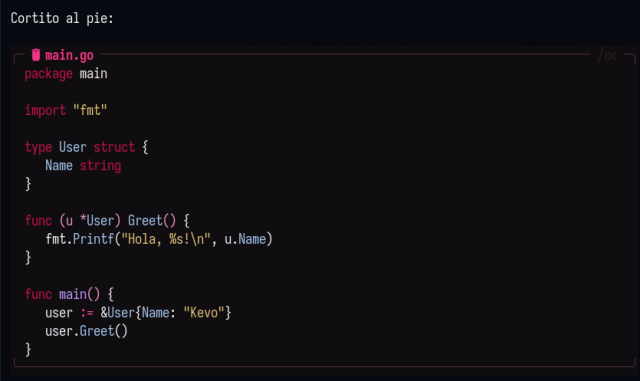
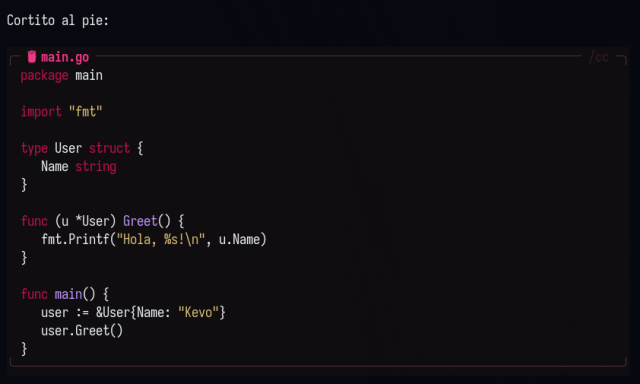
Docs

diff --git a/README.md b/README.md
@@ -10,29 +10,46 @@ Extensión estética y de productividad para **Pi Coding Agent** que transforma 
   <img src="assets/preview-code.png" alt="pi-messages Codeblock Preview" width="100%">
 </p>
 
-### ✨ Estilo de Bloques y Diffs
+## 📸 Vista Previa
 
-| Código con Icono y Encabezado (`Rust` / `Go`) | Diffs de Git con Bordes Redondeados |
+<p align="center">
+  <img src="assets/preview-code.png" alt="pi-messages Codeblock Preview" width="100%">
+</p>
+
+### 🎨 NEW: Selector de Coloración `/picolor` (PiColor vs Vanilla)
+
+|  PiColor (Semántico Universal Enriquecido) |  Vanilla (Motor Clásico por Defecto de Pi) |
 | :---: | :---: |
-| <img src="assets/preview-go.png" width="100%" alt="Go code preview"> | <img src="assets/preview-diff.png" width="100%" alt="Diff preview"> |
+| <img src="assets/preview-picolor.png" width="100%" alt="Modo PiColor: Resaltado Enriquecido"> | <img src="assets/preview-vanilla.png" width="100%" alt="Modo Vanilla: Por Defecto"> |
 
-### ⚡ Atajos de Teclado Interactivos
+| Menú Interactivo `/picolor` | Auto-Reload Instantáneo |
+| :---: | :---: |
+| <img src="assets/preview-picolor-command.png" width="100%" alt="Comando /picolor"> | <img src="assets/preview-picolor-selector.png" width="100%" alt="Selector de Motor de Sintaxis"> |
+
+### ⚡ Productividad y Estilo
 
 | Menú de Copiado Rápido (`Alt+C` / `/cc`) | Menú de Inserción en Editor (`Alt+I` / `/ci`) |
 | :---: | :---: |
 | <img src="assets/preview-copy-selector.png" width="100%" alt="Copy selector preview"> | <img src="assets/preview-insert-selector.png" width="100%" alt="Insert selector preview"> |
 
-### 🎨 NEW: Selector de Coloración `/picolor` (PiColor vs Vanilla)
-
-| Menú Interactivo `/picolor` | Cambio Automático de Modo |
+| Código con Icono y Encabezado (`Rust` / `Go`) | Diffs de Git con Bordes Redondeados |
 | :---: | :---: |
-| <img src="assets/preview-picolor-command.png" width="100%" alt="Comando /picolor"> | <img src="assets/preview-picolor-selector.png" width="100%" alt="Selector de Motor de Sintaxis"> |
-
-|  PiColor (Semántico Universal Enriquecido) |  Vanilla (Motor Clásico por Defecto de Pi) |
-| :---: | :---: |
-| <img src="assets/preview-picolor.png" width="100%" alt="Modo PiColor"> | <img src="assets/preview-vanilla.png" width="100%" alt="Modo Vanilla"> |
+| <img src="assets/preview-go.png" width="100%" alt="Go code preview"> | <img src="assets/preview-diff.png" width="100%" alt="Diff preview"> |
 
 *(Todo el bloque cuenta con fondo tenue continuo, cabecera con icono Nerd Font del lenguaje o ruta de archivo, minileyenda `/cc`, esquinas redondeadas simétricas `╭ ╮` y `╰ ╯`, y ausencia de barras laterales en el código para copiar limpio con el mouse).*
+
+---
+
+## 🚀 Mejoras y Novedades (NEW)
+
+###  Resaltado Semántico Universal PiColor
+* **El problema que resuelve:** El resaltador tradicional de Pi (`cli-highlight` basado en `highlight.js`) solo resalta palabras reservadas duras (`func`, `var`, `if`) y strings, dejando llamadas a métodos (`.Group()`, `.POST()`, `.Error()`), structs, punteros (`*User`), tipos (`string`, `UUID`), y operadores (`:=`, `!=`, `->`) como texto blanco plano, quitando contexto y jerarquía visual.
+* **Motor Semántico Universal:** `pi-messages` se conecta a las 191 gramáticas de highlight.js e incorpora un enriquecedor contextual universal. Ahora métodos, clases, tipos y operadores se colorean con sus tokens específicos (`syntaxFunction`, `syntaxType`, `syntaxOperator`, etc.) en cualquier lenguaje (**Go, Python, Rust, C++, Java, JS, TS, Ruby, Solidity, etc.**).
+* **100% Adaptable al tema activo:** Los colores no están hardcodeados; se obtienen en tiempo real de la paleta activa en Pi (`Gentleman-Sexy`, `Gentleman-Cute`, `monokai`, etc.).
+
+###  Switch Interactivo con `/picolor`
+* **Control total para el usuario:** Podés alternar en cualquier momento entre **PiColor** (enriquecido) y **Vanilla** (motor por defecto de Pi).
+* **Auto-Reload:** Tu preferencia se guarda automáticamente en `~/.pi/agent/pi-messages.json` y la sesión se recarga sola al instante sin comandos adicionales.
 
 ---
 
@@ -64,12 +81,6 @@ Extensión estética y de productividad para **Pi Coding Agent** que transforma 
 ### 6. Fondo con Alpha Blending
 * Toma automáticamente el color de fondo de las herramientas del tema activo (`toolSuccessBg`).
 * Aplica una fórmula matemática de **alpha blending** al 50% hacia el fondo base de la terminal, logrando un efecto translúcido sutil que no cansa la vista y respeta el tema de consola.
-
-### 7. NEW: Resaltado Semántico Universal PiColor y Switch `/picolor`
-* **El problema que resuelve:** El resaltador tradicional de Pi (`cli-highlight` basado en `highlight.js`) solo resalta palabras reservadas duras (`func`, `var`, `if`) y strings, dejando llamadas a métodos (`.Group()`, `.POST()`, `.Error()`), structs, punteros (`*User`), tipos (`string`, `UUID`), y operadores (`:=`, `!=`, `->`) como texto blanco plano, quitando contexto y jerarquía visual.
-* **Motor Semántico Universal PiColor:** `pi-messages` se conecta a las 191 gramáticas de highlight.js e incorpora un enriquecedor contextual universal. Ahora métodos, clases, tipos y operadores se colorean con sus tokens específicos (`syntaxFunction`, `syntaxType`, `syntaxOperator`, etc.) en cualquier lenguaje (Go, Python, Rust, C++, Java, JS, TS, Ruby, Solidity, etc.).
-* **100% Adaptable al tema activo:** Los colores no están hardcodeados; se obtienen en tiempo real de la paleta activa en Pi (`Gentleman-Sexy`, `Gentleman-Cute`, `monokai`, etc.).
-* **Comando interactivo `/picolor`:** Podés alternar en cualquier momento entre **PiColor** (enriquecido) y **Vanilla** (motor por defecto de Pi). Tu preferencia se guarda automáticamente y la sesión se recarga sola al instante.
 
 ---
 
